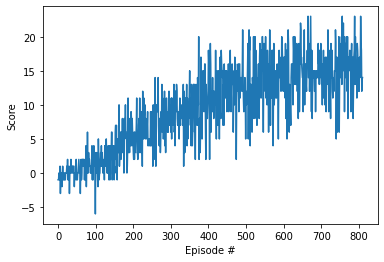
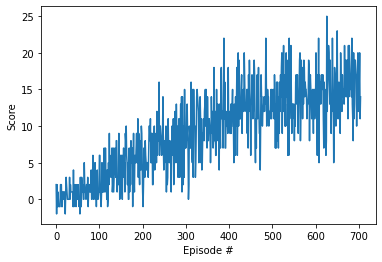
Submission2

diff --git a/p1_navigation/Report.md b/p1_navigation/Report.md
@@ -70,22 +70,21 @@ Learning Rate | 5e-4
 
 
 # Result
-The agent solved the environment in 711 episodes with average score, 15.00. 
+The agent solved the environment in 705 episodes with average score, 15.00. 
 Here is the log of the learning and plot of average scores."
 
 ```angular2html
-Episode 100	Average Score: 0.37
-Episode 200	Average Score: 3.25
-Episode 300	Average Score: 6.83
-Episode 400	Average Score: 9.37
-Episode 500	Average Score: 12.11
-Episode 600	Average Score: 13.66
-Episode 700	Average Score: 14.83
-Episode 800	Average Score: 14.73
-Episode 811	Average Score: 15.00
-Environment solved in 711 episodes!	Average Score: 15.00
+Episode 100	Average Score: 0.96
+Episode 200	Average Score: 4.31
+Episode 300	Average Score: 7.17
+Episode 400	Average Score: 10.08
+Episode 500	Average Score: 12.70
+Episode 600	Average Score: 13.85
+Episode 700	Average Score: 14.87
+Episode 705	Average Score: 15.00
+Environment solved in 705 episodes!	Average Score: 15.00
 ```
-![Averaget scores](learning.png)
+![Average scores](learning.png)
 
 # Ideas for Future Work
 In order to improve the efficiency of the learning, we could apply 
